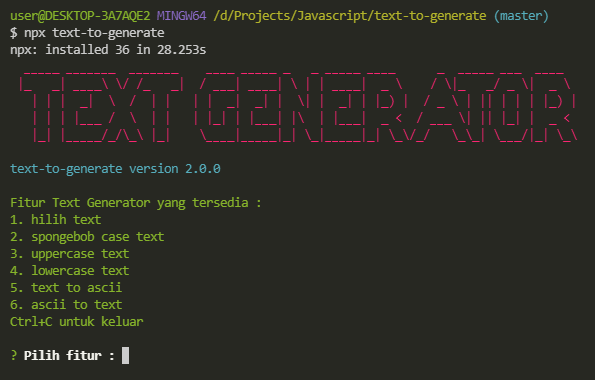
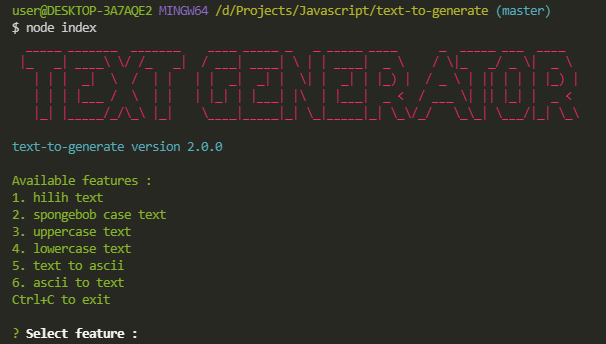
update(cli,readme): implement international lang

diff --git a/index.js b/index.js
@@ -20,45 +20,45 @@ module.exports = (function () {
     console.log(
       colors.success,
       `
-        \rFitur Text Generator yang tersedia :
+        \rAvailable features :
         \r1. hilih text
         \r2. spongebob case text
         \r3. uppercase text
         \r4. lowercase text
         \r5. text to ascii
         \r6. ascii to text
-        \rCtrl+C untuk keluar
+        \rCtrl+C to exit
       `
     );
 
     let generator = () => {
       inquirer.prompt(cli.question).then((rules) => {
-        let pilihan = rules.pilihan;
+        let selection = rules.selection;
 
-        if (pilihan == 1) {
+        if (selection == 1) {
           console.log(hilih(rules.text));
           retry();
-        } else if (pilihan == 2) {
+        } else if (selection == 2) {
           console.log(spongebob(rules.text));
           retry();
-        } else if (pilihan == 3) {
+        } else if (selection == 3) {
           console.log(rules.text.toUpperCase());
           retry();
-        } else if (pilihan == 4) {
+        } else if (selection == 4) {
           console.log(rules.text.toLowerCase());
           retry();
-        } else if (pilihan == 4) {
+        } else if (selection == 4) {
           console.log(rules.text.toLowerCase());
           retry();
-        } else if (pilihan == 5) {
+        } else if (selection == 5) {
           console.log(textToAscii(rules.text));
           retry();
-        } else if (pilihan == 6) {
+        } else if (selection == 6) {
           console.log(asciiToText(rules.text));
           retry();
         } else {
           process.stdout.write("\033c");
-          console.log(colors.error, "Mohon input pilihan dengan benar!");
+          console.log(colors.error, "Please input the selection correctly!");
           CLIinterface();
         }
       });

diff --git a/cli.js b/cli.js
@@ -1,26 +1,26 @@
 module.exports = {
   question: [
     {
-      name: "pilihan",
+      name: "selection",
       type: "input",
-      message: "Pilih fitur :",
+      message: "Select feature :",
       validate: (value) => {
         if (value.length) {
           return true;
         } else {
-          return "Tolong isi pilihan ya! jangan dikosongin!";
+          return "Please input the selection! don't leave it empty!";
         }
       },
     },
     {
       name: "text",
       type: "input",
-      message: "Masukkan teks :",
+      message: "Input the text :",
       validate: (value) => {
         if (value.length) {
           return true;
         } else {
-          return "Tolong isi pilihan ya! jangan dikosongin!";
+          return "Please input the selection! don't leave it empty!";
         }
       },
     },
